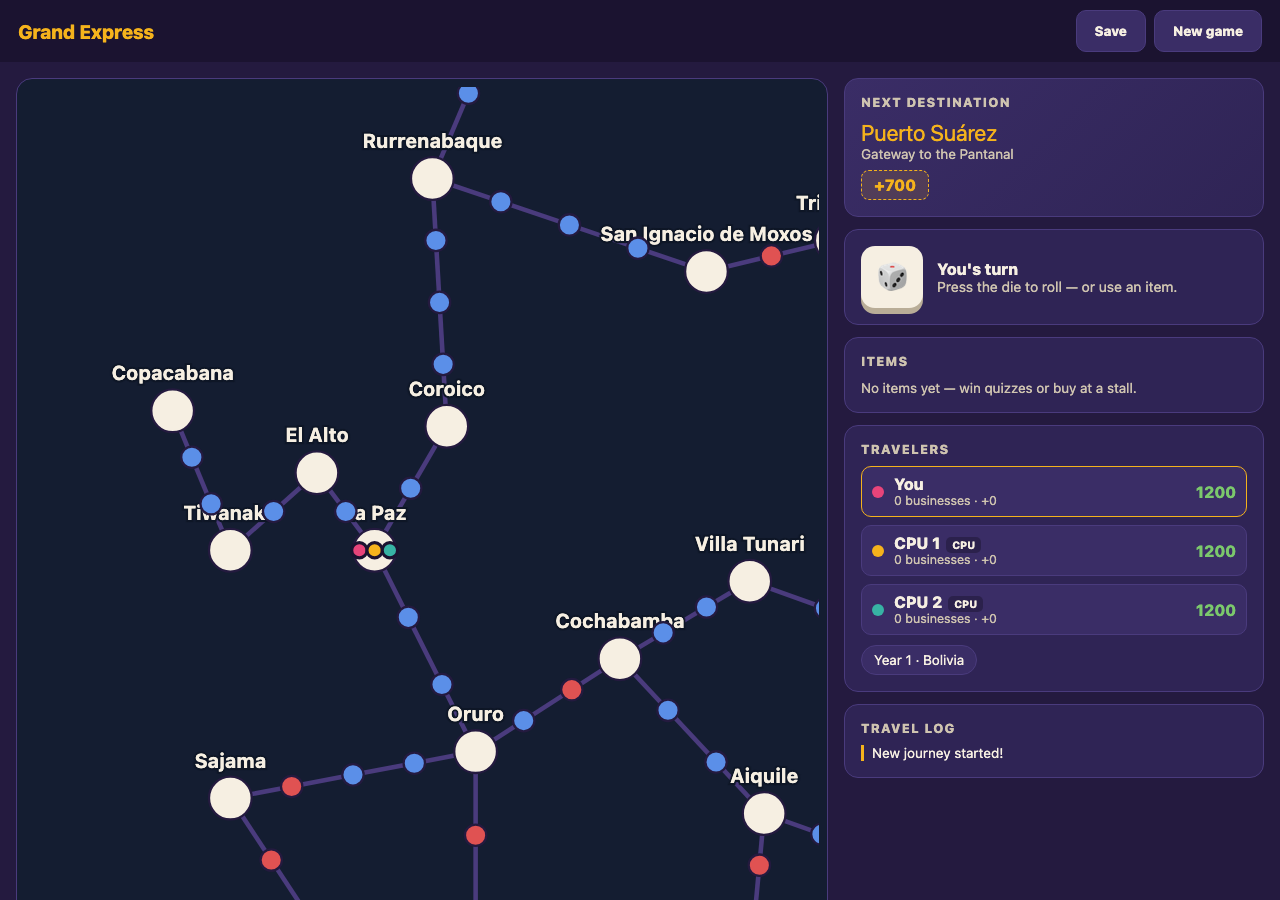
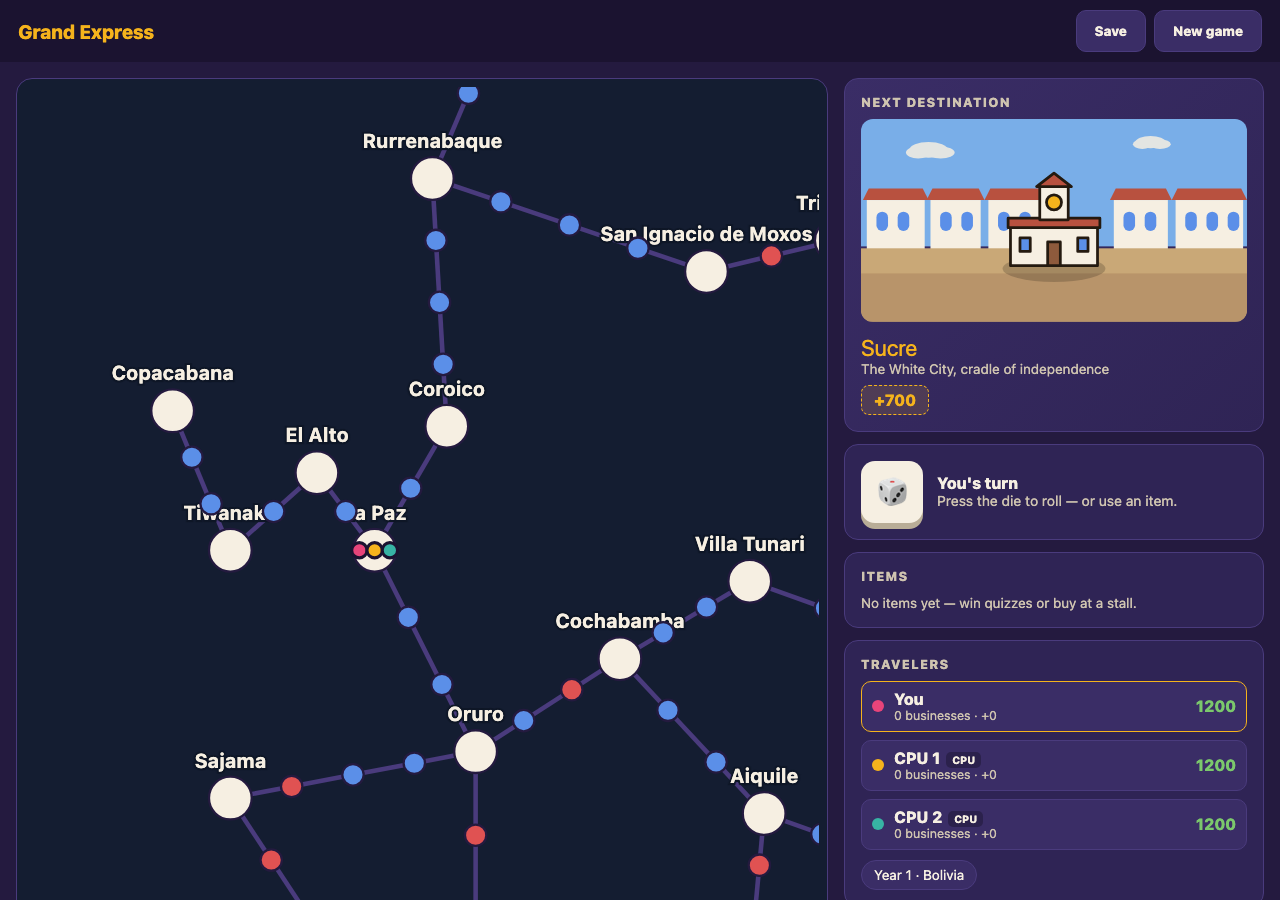
feat(presentation): 都市の手描きイラストを抽出して移植
これまで「原作にどこまで似せるかの意思決定が必要」として保留していた項目だが、
legacy側の実装を読んだところ G.bg[...] は引数なし・乱数なしの純粋関数であり
(組み立てに使う band/dotc/clouds/treeRow もすべて決定的)、「どう描くか」を
人が決める余地はそもそもないと分かった。よって抽出スクリプトで一度評価して
結果のSVG文字列を保存するだけで、1ピクセルも変えずにデータとして移植できる。

- scripts/extract-legacy-content.mjs: evaluateBackgrounds() を追加。各シーンを
  評価してコンテンツJSONへ保存する。2回呼んで同じ結果になることも検証しており、
  将来legacy側に乱数が混ざった場合は静かに壊れず抽出時点でエラーになる
- 都市のシンボル(marks)は元々SVG文字列として抽出できていたのでそのまま利用
- スキーマ/ドメイン型/マッパーに bg・mark・marks・stripe を追加
- city-art.tsx: legacyの cityArt() と同じ重ね順・座標・スケール(s=4.1, gy=152)で
  背景+影+シンボル+キャプション帯を合成する
- 適用箇所: 出発ストーリー、町のモーダル、次の区間の案内、目的地カードの
  サムネイル(legacyの destThumb と同じ bare 版)

コンテンツJSONは約185KB→約215KBに増えるが、国ごとの動的importチャンク内なので
初期バンドルには影響しない。実際の描画結果はスクリーンショットで確認し、
docs/90-migration/assets/new-intro-modal.png として記録した(legacyとほぼ同一)。

未実装: 盤面そのものに地形イラストを敷く表現と、国選択カードのポリゴン地図
(countryThumb())。いずれも同じ手法で移植可能。

typecheck/lint/depcruise/vitest(201件)/playwright(12件)/next build すべて確認済み。

Changed region(s): [[0.6562, 0.1244, 1.0, 0.9956], [0.9375, 0.5289, 0.9688, 0.56]]

diff --git a/src/presentation/components/city/city-art.tsx b/src/presentation/components/city/city-art.tsx
@@ -1,0 +1,73 @@
+"use client";
+
+import { CityId } from "../../../domain/shared-kernel/ids";
+import { GameEngineContext } from "../../../application/game-engine-context";
+import { useLocale } from "../../i18n/locale-context";
+
+/**
+ * 都市のイラスト(legacyの `cityArt(id, opts)` の移植)。
+ *
+ * 背景シーン(`artScenes`)とシンボル(`artGlyphs`)はどちらもlegacyのSVG断片を
+ * そのまま抽出したもので(`scripts/extract-legacy-content.mjs` 参照)、
+ * 重ね順・座標・スケール(`s=4.1`, `gy=152`)・影の楕円もlegacyと同じ値を使っている。
+ *
+ * SVG断片は自前のコンテンツJSON(ビルド時にリポジトリへ同梱される静的データ)由来で
+ * ユーザー入力は一切含まないため、`dangerouslySetInnerHTML` で挿入している。
+ */
+export function CityArt({
+  context,
+  cityId,
+  /** true なら都市名・国名のキャプション帯を省く(legacyの `opts.bare`)。 */
+  bare = false,
+}: {
+  context: GameEngineContext;
+  cityId: CityId;
+  bare?: boolean;
+}) {
+  const { tx } = useLocale();
+  const city = context.getCity(cityId);
+  const scenes = context.content.artScenes;
+  const scene = scenes[city.artSceneKey] ?? Object.values(scenes)[0] ?? "";
+  const glyph = context.content.artGlyphs[city.artGlyphKey] ?? "";
+
+  const s = 4.1;
+  const gy = 152;
+  const stripe = context.content.stripeColors;
+
+  const inner =
+    scene +
+    `<ellipse cx="200" cy="${gy + 3}" rx="${13 * s}" ry="${3.4 * s}" fill="#000" opacity=".18"/>` +
+    `<g transform="translate(${200 - 12 * s},${gy - 24 * s}) scale(${s})" stroke="#241a10" stroke-width=".7" stroke-linejoin="round">${glyph}</g>`;
+
+  if (bare) {
+    return (
+      <svg viewBox="0 0 400 210" className="city-art" role="presentation" dangerouslySetInnerHTML={{ __html: inner }} />
+    );
+  }
+
+  const caption =
+    `<rect x="0" y="210" width="400" height="36" fill="#1b1330"/>` +
+    stripe.map((color, i) => `<rect x="${i * 80}" y="210" width="80" height="4" fill="${color}"/>`).join("") +
+    `<text x="16" y="236" font-size="19" font-weight="800" fill="#f5b31c">${escapeXml(tx(city.name))}</text>` +
+    `<text x="386" y="235" text-anchor="end" font-size="9" font-weight="800" letter-spacing="3" fill="#cfc4b0">${escapeXml(
+      tx(context.content.name).toUpperCase(),
+    )}</text>`;
+
+  return (
+    <svg
+      viewBox="0 0 400 246"
+      className="city-art"
+      role="presentation"
+      dangerouslySetInnerHTML={{ __html: inner + caption }}
+    />
+  );
+}
+
+/** 都市名・国名をSVGのテキストへ埋め込む際のエスケープ。 */
+function escapeXml(text: string): string {
+  return text
+    .replace(/&/g, "&amp;")
+    .replace(/</g, "&lt;")
+    .replace(/>/g, "&gt;")
+    .replace(/"/g, "&quot;");
+}

diff --git a/src/presentation/components/modals/intro-modal.tsx b/src/presentation/components/modals/intro-modal.tsx
@@ -5,14 +5,14 @@ import { isCityNode } from "../../../domain/board/node";
 import { GameEngineContext } from "../../../application/game-engine-context";
 import { useLocale } from "../../i18n/locale-context";
 import { renderRichText } from "../../i18n/rich-text";
+import { CityArt } from "../city/city-art";
 import { Modal } from "./modal";
 
 /**
  * ゲーム開始時に一度だけ表示する「出発ストーリー」モーダル
  * (legacyの `startGame()` 内の `modalOnce(...)` の移植)。
- * legacyにあった都市の手描きイラスト(`cityArt()`)は移植しておらず、
- * テキスト情報(開始資金・最初の目的地・賞金・遊び方のヒント)のみを再現している
- * (docs/90-migration/05-visual-comparison.md 参照)。
+ * 出発都市のイラスト(legacyの `cityArt()`)とテキスト情報(開始資金・最初の目的地・
+ * 賞金・遊び方のヒント)の両方を再現している。
  */
 export function IntroModal({
   context,
@@ -32,6 +32,7 @@ export function IntroModal({
 
   return (
     <Modal>
+      {isCityNode(startNode) && <CityArt context={context} cityId={startNode.cityId} />}
       <div className="eyebrow">{t("allAboard")}</div>
       <h3>{t("departure", startCityName)}</h3>
       <p>{renderRichText(t("startBody", player.cash.amount, tx(destination.name), prize))}</p>

diff --git a/src/presentation/components/modals/next-leg-modal.tsx b/src/presentation/components/modals/next-leg-modal.tsx
@@ -6,6 +6,7 @@ import { GameEngineContext } from "../../../application/game-engine-context";
 import { useLocale } from "../../i18n/locale-context";
 import { formatMessage } from "../../i18n/messages";
 import { renderRichText } from "../../i18n/rich-text";
+import { CityArt } from "../city/city-art";
 import { Modal } from "./modal";
 
 /**
@@ -13,8 +14,7 @@ import { Modal } from "./modal";
  * (legacyの `arriveDest` 後半のモーダルの移植)。
  * 新しい目的地・その紹介文・賞金と、厄災の神が誰に憑いたかを伝える。
  *
- * legacyにあった都市の手描きイラスト(`cityArt()`)は移植していない
- * (docs/90-migration/05-visual-comparison.md 参照)。
+ * legacyと同様、新しい目的地のイラスト(`cityArt()`)も表示する。
  */
 export function NextLegModal({
   context,
@@ -53,6 +53,7 @@ export function NextLegModal({
       <p>
         {tx(destination.tag)}. {renderRichText(t("firstWins", prize))}
       </p>
+      <CityArt context={context} cityId={session.destination} />
       {spiritMessage && <div className="fact">{renderRichText(spiritMessage)}</div>}
       <div className="btnrow" style={{ marginTop: 16 }}>
         <button className="btn" onClick={onContinue}>

diff --git a/src/infrastructure/content/raw-content-schema.ts b/src/infrastructure/content/raw-content-schema.ts
@@ -22,6 +22,10 @@ const RawCitySchema = z.object({
   tag: LocalizedTextSchema,
   fact: LocalizedTextSchema,
   props: z.array(RawPropertySchema),
+  /** 都市イラストの背景シーンのキー(`bg` の要素を指す)。 */
+  bg: z.string(),
+  /** 都市イラストのシンボル(グリフ)のキー(`marks` の要素を指す)。 */
+  mark: z.string(),
 });
 
 const RawItemSchema = z.object({
@@ -98,6 +102,12 @@ export const RawCountryContentSchema = z.object({
   spirit: RawSpiritSchema,
   doom: z.array(RawDoomSchema),
   seasons: z.array(RawSeasonSchema),
+  /** 都市カードの帯に使う配色。 */
+  stripe: z.array(z.string()),
+  /** 都市イラストのシンボル(SVG断片)。キーは各都市の `mark`。 */
+  marks: z.record(z.string(), z.string()),
+  /** 都市イラストの背景シーン(SVG断片)。キーは各都市の `bg`。 */
+  bg: z.record(z.string(), z.string()),
 });
 
 export type RawCountryContent = z.infer<typeof RawCountryContentSchema>;

diff --git a/src/presentation/components/hud/side-panel.tsx b/src/presentation/components/hud/side-panel.tsx
@@ -5,6 +5,7 @@ import { totalIncome, monopolyCount, propertyCount } from "../../../domain/prope
 import { GameEngineContext } from "../../../application/game-engine-context";
 import { economyContextFor } from "../../../application/economy-context";
 import { useLocale } from "../../i18n/locale-context";
+import { CityArt } from "../city/city-art";
 import { LogEntry } from "../../state/game-store";
 
 const PLAYER_COLORS = ["#e8447a", "#f5b31c", "#37b3a4", "#7bc86c"];
@@ -16,6 +17,7 @@ export function DestinationCard({ context, session }: { context: GameEngineConte
   return (
     <div className="card dest-card">
       <h2>{t("nextDest")}</h2>
+      <CityArt context={context} cityId={session.destination} bare />
       <div className="dest-city">{tx(destination.name)}</div>
       <div className="dest-tag">{tx(destination.tag)}</div>
       <div className="dest-bonus">+{bonus}</div>

diff --git a/src/presentation/components/modals/city-modal.tsx b/src/presentation/components/modals/city-modal.tsx
@@ -7,6 +7,7 @@ import { incomeAtLevel, sellValueOf, upgradeCost } from "../../../domain/propert
 import { GameEngineContext } from "../../../application/game-engine-context";
 import { stallStockFor } from "../../../application/use-cases/visit-stall/visit-stall.use-case";
 import { useLocale } from "../../i18n/locale-context";
+import { CityArt } from "../city/city-art";
 import { Modal } from "./modal";
 
 export function CityModal({
@@ -37,6 +38,7 @@ export function CityModal({
 
   return (
     <Modal>
+      <CityArt context={context} cityId={cityId} />
       <div className="eyebrow">{t("townStop")}</div>
       <h3>{tx(city.name)}</h3>
       <p style={{ color: "var(--salt-dim)" }}>{tx(city.tag)}</p>

diff --git a/src/domain/country/country-content-pack.ts b/src/domain/country/country-content-pack.ts
@@ -49,6 +49,12 @@ export interface CountryContentPack {
   readonly seasons: readonly SeasonDefinition[];
   readonly doomFlavors: readonly DoomFlavor[];
   readonly spirit: SpiritFlavor;
+  /** 都市カードの帯に使う配色(現行コードの `stripe`)。 */
+  readonly stripeColors: readonly string[];
+  /** 都市イラストの背景シーン(SVG断片)。キーは `City.artSceneKey`。 */
+  readonly artScenes: Readonly<Record<string, string>>;
+  /** 都市イラストのシンボル(SVG断片)。キーは `City.artGlyphKey`。 */
+  readonly artGlyphs: Readonly<Record<string, string>>;
 }
 
 export function getCityOrThrow(pack: CountryContentPack, id: CityId): City {

diff --git a/src/infrastructure/content/country-content-mapper.ts b/src/infrastructure/content/country-content-mapper.ts
@@ -31,6 +31,8 @@ function mapCities(raw: RawCountryContent): City[] {
     tag: city.tag,
     fact: city.fact,
     properties: city.props.map((p) => ({ name: p.n, cost: p.cost, income: p.inc })),
+    artSceneKey: city.bg,
+    artGlyphKey: city.mark,
   }));
 }
 
@@ -125,5 +127,8 @@ export function mapRawContentToCountryPack(raw: RawCountryContent): CountryConte
       pleasedTemplate: raw.spirit.pleased,
       wardBodyTemplate: raw.spirit.wardBody,
     },
+    stripeColors: raw.stripe,
+    artScenes: raw.bg,
+    artGlyphs: raw.marks,
   };
 }

diff --git a/src/domain/board/city.ts b/src/domain/board/city.ts
@@ -17,6 +17,10 @@ export interface City {
   readonly tag: LocalizedText;
   readonly fact: LocalizedText;
   readonly properties: readonly PropertyDefinition[];
+  /** 都市イラストの背景シーンのキー(現行コードの `city.bg`)。 */
+  readonly artSceneKey: string;
+  /** 都市イラストのシンボルのキー(現行コードの `city.mark`)。 */
+  readonly artGlyphKey: string;
 }
 
 /** 都市間を結ぶ路線。 */

diff --git a/src/domain/property/property-income-service.test.ts b/src/domain/property/property-income-service.test.ts
@@ -66,6 +66,8 @@ function city(id: string, regionId: string, props: Array<[number, number]>): Cit
     latitude: 0,
     tag: sameForAllLocales(""),
     fact: sameForAllLocales(""),
+    artSceneKey: "scene",
+    artGlyphKey: "glyph",
     properties: props.map(([cost, income]) => ({ name: sameForAllLocales("p"), cost, income })),
   };
 }

diff --git a/src/domain/cpu/cpu-city-strategy.test.ts b/src/domain/cpu/cpu-city-strategy.test.ts
@@ -28,6 +28,8 @@ function city(): City {
     latitude: 0,
     tag: sameForAllLocales(""),
     fact: sameForAllLocales(""),
+    artSceneKey: "scene",
+    artGlyphKey: "glyph",
     properties: [
       { name: sameForAllLocales("p0"), cost: 300, income: 40 },
       { name: sameForAllLocales("p1"), cost: 300, income: 40 },

diff --git a/src/domain/cpu/cpu-move-strategy.test.ts b/src/domain/cpu/cpu-move-strategy.test.ts
@@ -40,6 +40,8 @@ function city(id: string, cost: number): City {
     latitude: 0,
     tag: sameForAllLocales(""),
     fact: sameForAllLocales(""),
+    artSceneKey: "scene",
+    artGlyphKey: "glyph",
     properties: [{ name: sameForAllLocales("p"), cost, income: 10 }],
   };
 }
